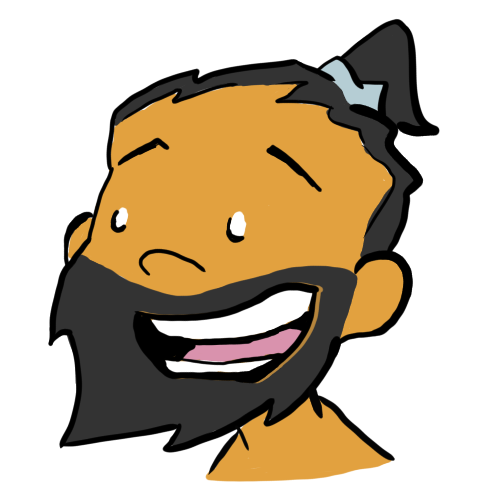
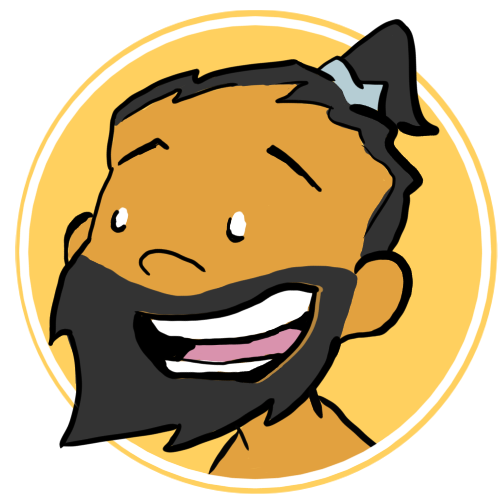
try commit

Changed region(s): [[0.21, 0.15, 1.0, 0.99], [0.03, 0.0, 0.72, 0.81]]

diff --git a/assets/sass/style.scss b/assets/sass/style.scss
@@ -111,8 +111,5 @@ body
     img 
     {
         width: 10%;
-        background-color: $gold-yellow;
-        border-radius: 50%;
-        background-position: bottom 50px right 100px;
     }
 }
